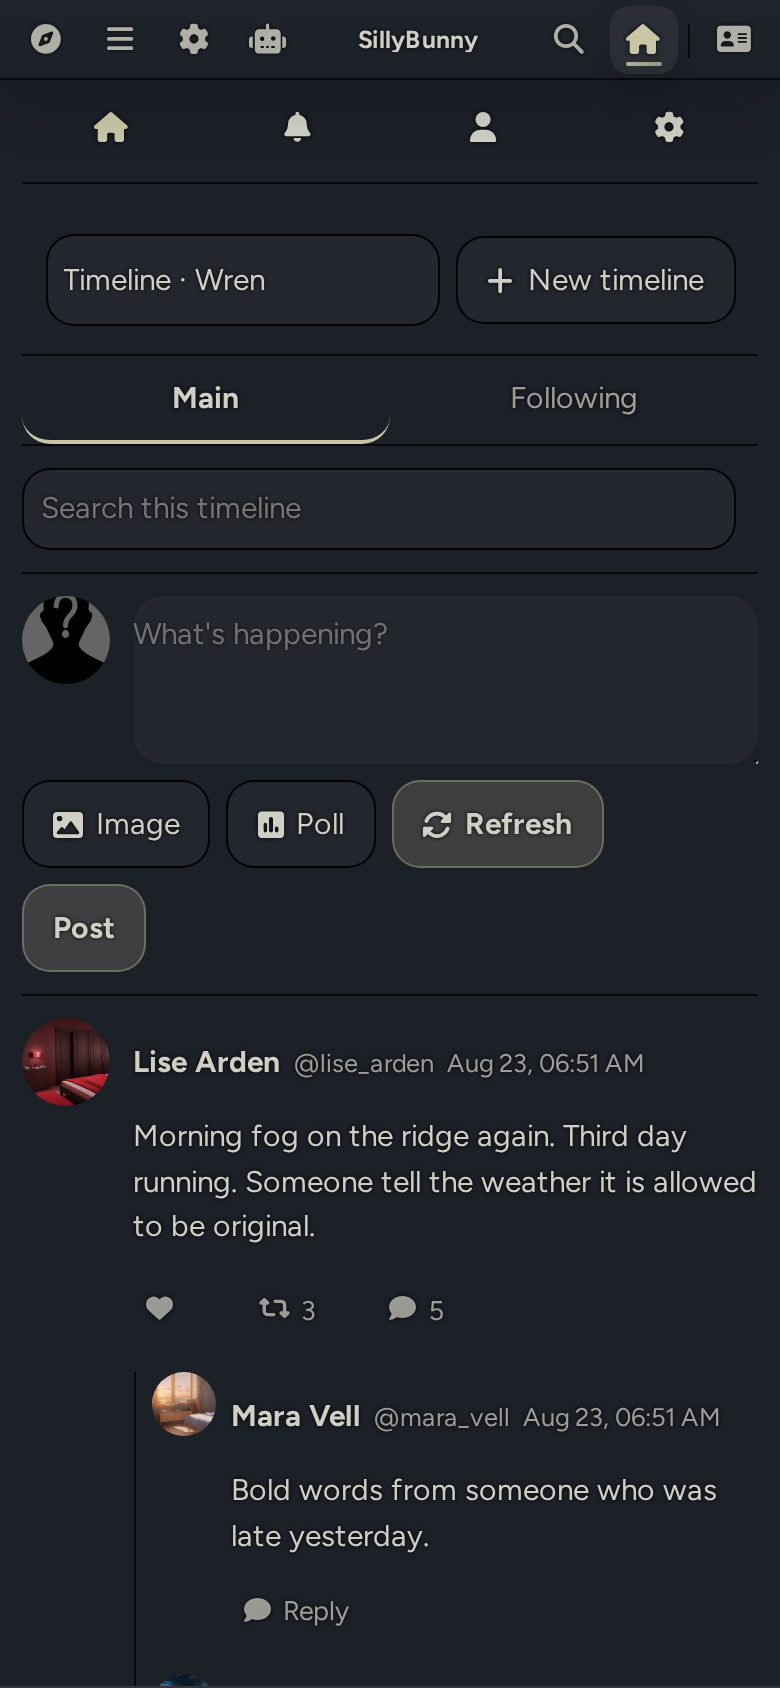
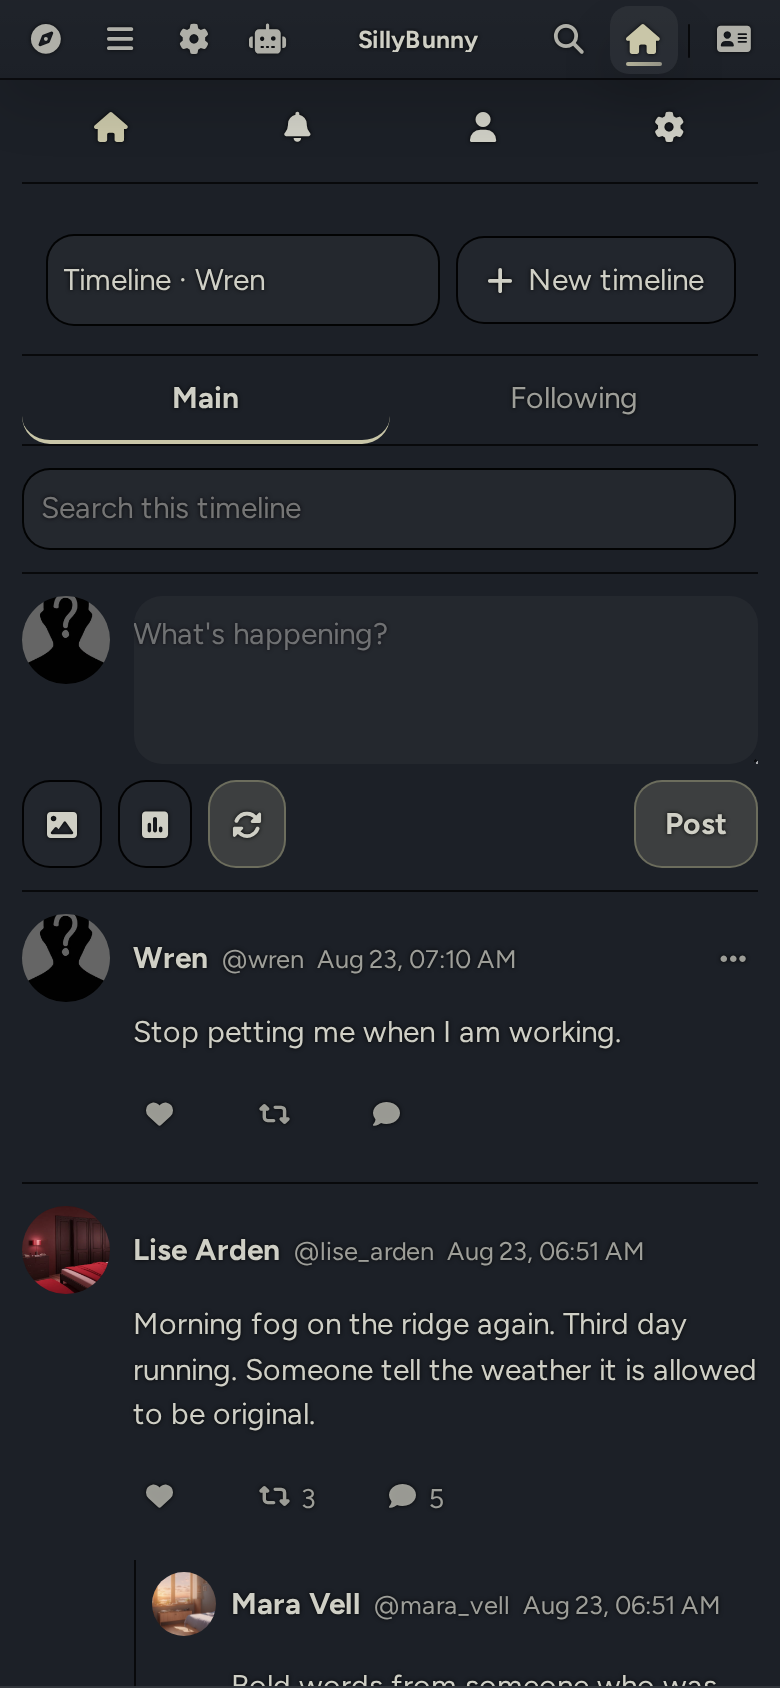
Scroll, reply, corner and composer fixes from the phone
- Only the icon nav stays put when the feed scrolls; the session bar was
  sticky and translucent, so posts showed through it.
- Replies put the avatar and the name block on one row with the avatar
  centred, and the text lines up under the name; on phones the time wraps
  to a second line and the avatar used to hang off the top.
- The own-post "..." button sits in the post's top-right corner instead of
  wrapping the name row onto a second line and pushing the text down.
- The composer bar stays on one row at any width: Image, Poll and Refresh
  go icon-only when the bar is narrower than 32em, Post keeps its label,
  the status text truncates instead of wrapping.

diff --git a/style.css b/style.css
@@ -383,8 +383,14 @@ body:has(> #sheld[data-sbtw-mode='on']) :is(
 }
 
 .sbtw-post-main {
+    position: relative;
     flex: 1;
     min-width: 0;
+}
+
+/* Room for the corner button so the name row never runs under it. */
+.sbtw-post .sbtw-meta:has(> .sbtw-delete) {
+    padding-right: 2rem;
 }
 
 .sbtw-meta {
@@ -440,7 +446,9 @@ body:has(> #sheld[data-sbtw-mode='on']) :is(
 }
 
 .sbtw-delete {
-    margin-left: auto;
+    position: absolute;
+    top: 0;
+    right: 0;
     border: none;
     background: transparent;
     color: var(--sbtw-muted);
@@ -530,12 +538,25 @@ body:has(> #sheld[data-sbtw-mode='on']) :is(
 
 .sbtw-reply {
     display: flex;
+    flex-direction: column;
+    gap: 0.2rem;
+}
+
+.sbtw-reply-head {
+    display: flex;
+    align-items: center;
     gap: 0.5rem;
 }
 
-.sbtw-reply-main {
+.sbtw-reply-head .sbtw-meta {
     flex: 1;
     min-width: 0;
+}
+
+/* Indented past the avatar column (2rem) and the head gap, so the text lines up under the name. */
+.sbtw-reply-main {
+    min-width: 0;
+    padding-left: 2.5rem;
 }
 
 .sbtw-reply-actions {
@@ -603,11 +624,29 @@ body:has(> #sheld[data-sbtw-mode='on']) :is(
     align-items: center;
     gap: 0.5rem;
     margin-top: 0.5rem;
-    flex-wrap: wrap;
+    flex-wrap: nowrap;
+    container-type: inline-size;
+}
+
+.sbtw-composer-bar .sbtw-btn {
+    flex: 0 0 auto;
+    white-space: nowrap;
+}
+
+/* Narrow bar: buttons that have an icon go icon-only; Post and Reply keep their labels. */
+@container (width < 32em) {
+    .sbtw-composer-bar .sbtw-btn:has(> i) span {
+        display: none;
+    }
+
+    .sbtw-composer-bar .sbtw-btn:has(> i) {
+        padding-inline: 0.7rem;
+    }
 }
 
 .sbtw-spacer {
-    flex: 1;
+    flex: 1 1 0;
+    min-width: 0;
 }
 
 .sbtw-attachment img,
@@ -735,6 +774,11 @@ body:has(> #sheld[data-sbtw-mode='on']) :is(
 }
 
 .sbtw-status {
+    flex: 0 1 auto;
+    min-width: 0;
+    overflow: hidden;
+    text-overflow: ellipsis;
+    white-space: nowrap;
     color: var(--sbtw-muted);
     font-size: 0.85em;
 }
@@ -824,9 +868,6 @@ body:has(> #sheld[data-sbtw-mode='on']) :is(
 /* --- settings ----------------------------------------------------------- */
 
 .sbtw-session-bar {
-    position: sticky;
-    top: 0;
-    z-index: 3;
     display: flex;
     align-items: center;
     gap: 0.5rem;

diff --git a/src/ui.js b/src/ui.js
@@ -398,8 +398,9 @@ function replyNode(reply) {
     const handle = handleFor(reply.actorKey, reply.actorSnapshot);
     const targeted = isReplyTarget(reply.postId, reply.id);
     return el('div', { className: 'sbtw-reply', attrs: { 'data-kind': reply.actorSnapshot?.kind ?? '' } }, [
-        avatarNode(account, 'sm'),
-        el('div', { className: 'sbtw-reply-main' }, [
+        // The avatar shares a row with the name block so it stays centred on it even when the time wraps.
+        el('div', { className: 'sbtw-reply-head' }, [
+            avatarNode(account, 'sm'),
             el('div', { className: 'sbtw-meta' }, [
                 el('button', {
                     className: 'sbtw-name',
@@ -410,6 +411,8 @@ function replyNode(reply) {
                 el('span', { className: 'sbtw-handle', text: `@${handle}` }),
                 el('span', { className: 'sbtw-time', text: dateFormat.format(new Date(reply.createdAt)) }),
             ]),
+        ]),
+        el('div', { className: 'sbtw-reply-main' }, [
             parent
                 ? el('div', {
                     className: 'sbtw-replying',
@@ -650,7 +653,7 @@ function composerBar(canPost, postField = null) {
             text: state.status,
             attrs: { role: 'status', 'aria-live': 'polite' },
         }),
-        canPost ? button('Post', 'sbtw-btn sbtw-btn-primary', () => publish(postField.value)) : null,
+        canPost ? button('Post', 'sbtw-btn sbtw-btn-primary sbtw-post-button', () => publish(postField.value)) : null,
     ]);
 }
 
